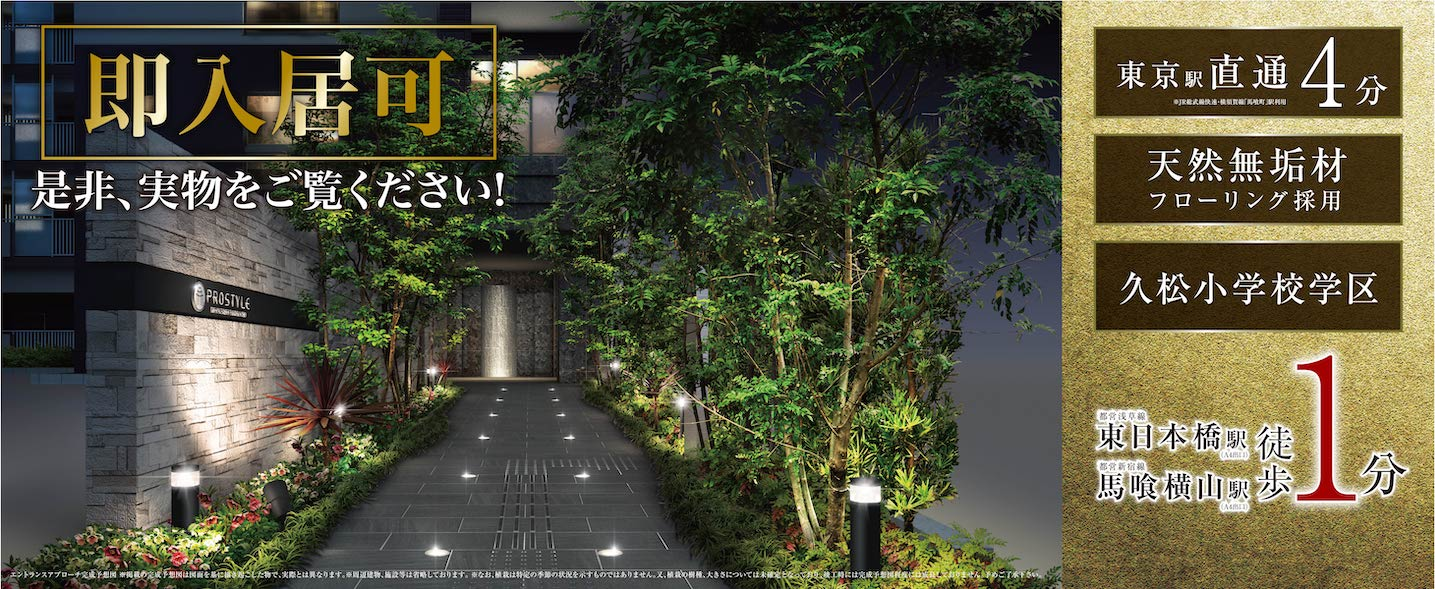
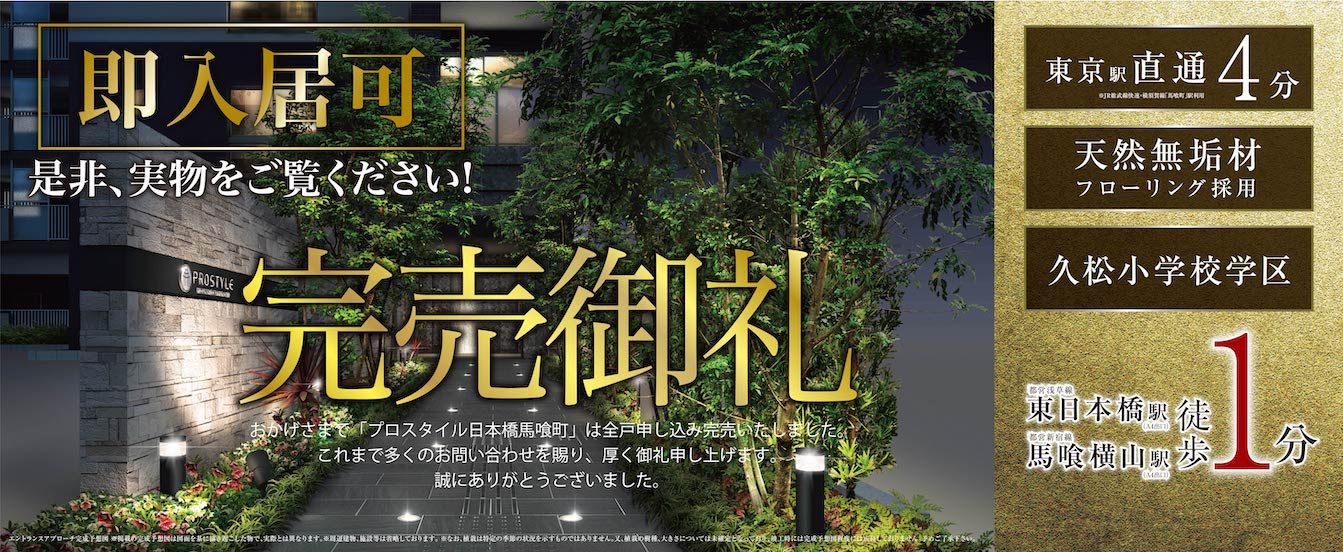
re 1. プロポライフ/ pls set all sold out status for "/nihonbashibakurocho"

diff --git a/prostyle-residence/www/nihonbashibakurocho/assets/js/scripts.js b/prostyle-residence/www/nihonbashibakurocho/assets/js/scripts.js
@@ -2,6 +2,22 @@
 
 $(function() {
 
+	var pathName = window.location.pathname;
+	if (pathName == '/nihonbashibakurocho/' || pathName.indexOf('/nihonbashibakurocho/sumikae/') > -1){
+	}else{
+		window.location = "https://www.prostyle-residence.com/nihonbashibakurocho/";
+	}
+
+	var hrefNav = $('a');
+	$.each(hrefNav, function(i, e){
+		if (e.href.indexOf('sumikae') > -1){
+			console.log(e.href);
+		}else{
+			$(e).css({"cursor": "default"});
+			$(e).click(function(event){ event.preventDefault();});
+		}
+	})
+
 	var fullpage = $('#fullpage'), flg = false, body = $('body'), flg_fullpage = false,
 			fullpage_args = {
 				scrollOverflow: true,
@@ -382,7 +398,7 @@ $(function() {
 			if (0 < $('.mh').length) {
     			$('.mh').matchHeight();
 			}
-			func_popup();
+			// func_popup();
 			// func_section_rate();
 		},
 		resize: function() {

diff --git a/prostyle-residence/www/nihonbashibakurocho/index.html b/prostyle-residence/www/nihonbashibakurocho/index.html
@@ -338,9 +338,9 @@ j=d.createElement(s),dl=l!='dataLayer'?'&l='+l:'';j.async=true;j.src=
 
 <script>
 $(function() {
-	$(".popupClose").click(function () {
-		$("#popUp").addClass("hidden");
-	});
+	// $(".popupClose").click(function () {
+	// 	$("#popUp").addClass("hidden");
+	// });
 });
 </script>
 <!-- <div id="popUp">
